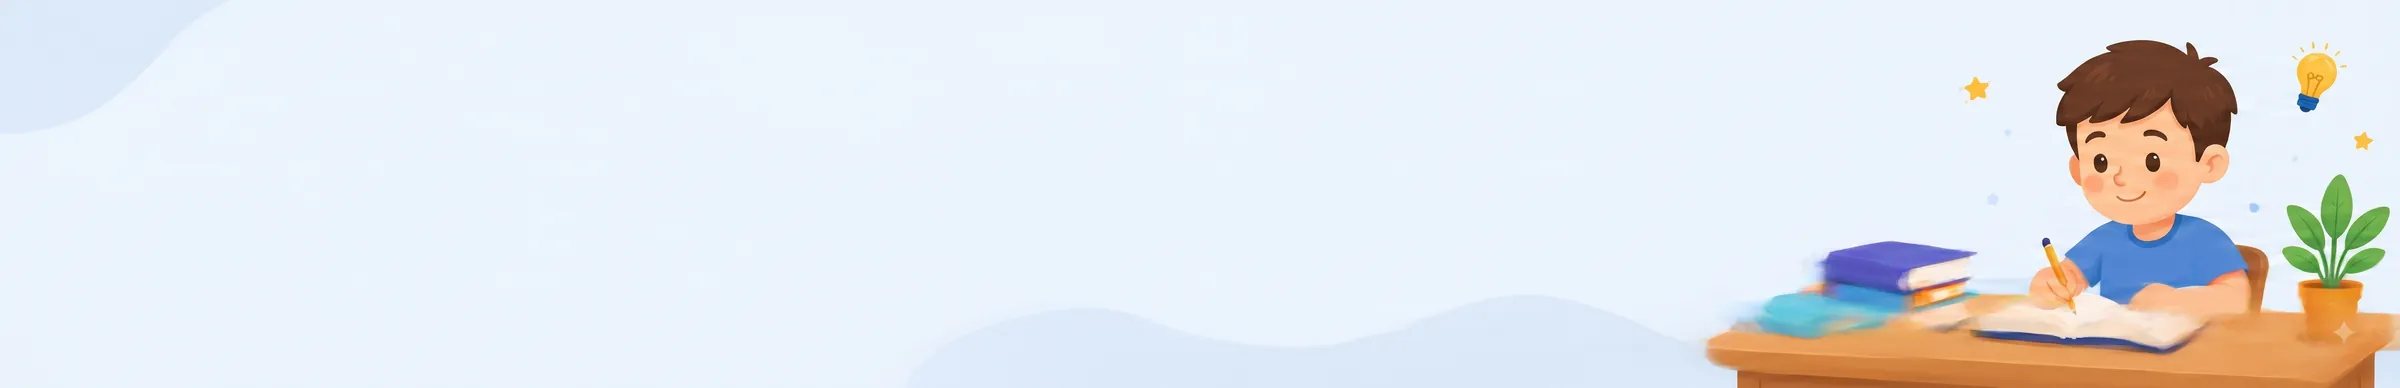
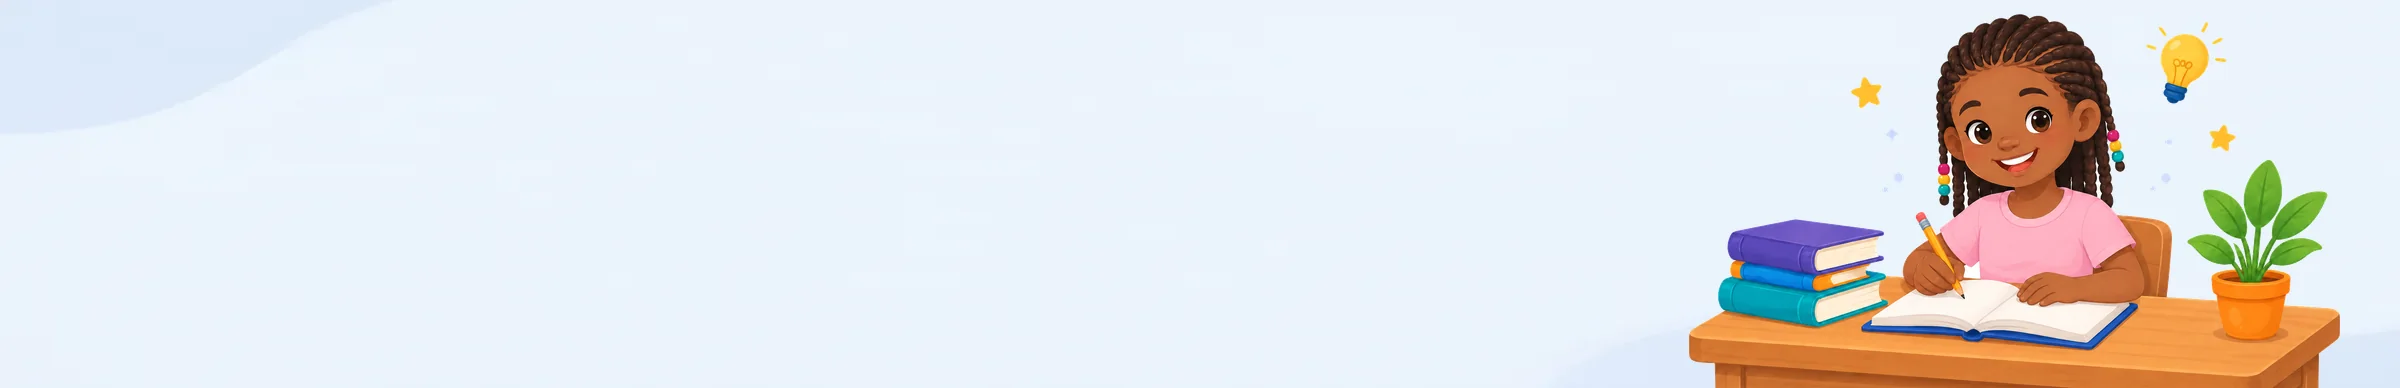
Saber+ 1.0

Changed region(s): [[0.6875, 0.0309, 1.0, 1.0], [0.9688, 0.3402, 1.0, 0.3711]]

diff --git a/src/pages/Home.jsx b/src/pages/Home.jsx
@@ -1,9 +1,25 @@
+import { useState } from 'react';
 import { useNavigate } from 'react-router-dom';
 import '../CSS/Home.css';
 import BotaoInstalar from '../components/BotaoInstalar';
 
+/* As ilustrações da tela inicial mudam a cada visita.
+   São várias versões dos mesmos dois cartões, com pessoas diferentes —
+   quem abre o Saber+ deve conseguir se reconhecer ali.
+   Para acrescentar mais, é só salvar o arquivo em public/imagens/ e
+   aumentar o número aqui. */
+const PROFESSORES = 5;
+const ALUNOS = 4;
+
+const sortear = (quantos) => 1 + Math.floor(Math.random() * quantos);
+
 function Home() {
   const navigate = useNavigate();
+
+  // useState com função: sorteia uma vez por carregamento da página,
+  // e não a cada vez que o React redesenha a tela.
+  const [professor] = useState(() => sortear(PROFESSORES));
+  const [aluno]     = useState(() => sortear(ALUNOS));
 
   return (
     <div className="home-container">
@@ -16,17 +32,24 @@ function Home() {
         <div className="cards-row">
           <div className="access-card">
             <div className="avatar">
-              {/* Substitua pelo nome exato da imagem que você salvou na pasta public */}
-              <img src="/imagens/professor.webp" alt="Avatar Professor" className="avatar-img" />
+              <img
+                src={`/imagens/professor${professor}.webp`}
+                alt="Dois professores sorrindo, com livros na mão"
+                className="avatar-img"
+              />
             </div>
             <button className="btn-blue" onClick={() => navigate('/login/professor')}>
               ACESSO PROFESSOR
             </button>
           </div>
+
           <div className="access-card">
             <div className="avatar">
-              {/* Substitua pelo nome exato da imagem que você salvou na pasta public */}
-              <img src="/imagens/aluno.webp" alt="Avatar Aluno" className="avatar-img" />
+              <img
+                src={`/imagens/aluno${aluno}.webp`}
+                alt="Dois alunos sorrindo, estudando no computador"
+                className="avatar-img"
+              />
             </div>
             <button className="btn-green" onClick={() => navigate('/aluno/area')}>
               ACESSO ALUNO

diff --git a/src/CSS/AreaAluno.css b/src/CSS/AreaAluno.css
@@ -430,7 +430,10 @@
   .senha-digitada { gap: 8px; }
   .senha-slot { width: 58px; height: 58px; font-size: 26px; border-radius: 14px; }
 
-  .teclado-virtual { gap: 8px; }
+  .teclado-virtual {
+    gap: 8px;
+    grid-template-columns: repeat(auto-fit, minmax(48px, 1fr));
+  }
   .tecla-emoji { font-size: 24px; padding: 8px 0; }
 }
 
@@ -438,11 +441,9 @@
   .senha-slot { width: 50px; height: 50px; font-size: 22px; }
 }
 
-/* O teclado se encaixa no espaço disponível em qualquer tela */
-.teclado-virtual {
-  grid-template-columns: repeat(auto-fit, minmax(48px, 1fr));
-}
-
+/* No computador o teclado continua com 6 colunas certinhas (duas fileiras de
+   6 frutas). Só no celular, onde 6 colunas não cabem, ele se encaixa sozinho
+   no espaço que tem. */
 .tecla-emoji { min-height: 48px; }
 .tecla-emoji:active:not(:disabled) { transform: scale(0.92); }
 

diff --git a/src/pages/AlunoHome.jsx b/src/pages/AlunoHome.jsx
@@ -26,13 +26,13 @@ const AVATARES = [
   '/avatares/img33.PNG',
 ];
 
-// Banners de boas vindas
-const ILUSTRACOES_BEM_VINDO = [
-  '/ilustracoes/banner1.webp',
-  '/ilustracoes/banner2.webp',
-  '/ilustracoes/banner3.webp',
-  '/ilustracoes/banner4.webp',
-];
+/* Banners de boas-vindas. São 12, com crianças diferentes: cada visita
+   mostra uma. Para acrescentar mais, salve o arquivo em public/ilustracoes/
+   (2400 x 388) e aumente o número aqui. */
+const ILUSTRACOES_BEM_VINDO = Array.from(
+  { length: 12 },
+  (_, i) => `/ilustracoes/banner${i + 1}.webp`
+);
 
 // Cada tipo de atividade tem seu ícone
 function IconeTipo({ tipo, size = 20 }) {
